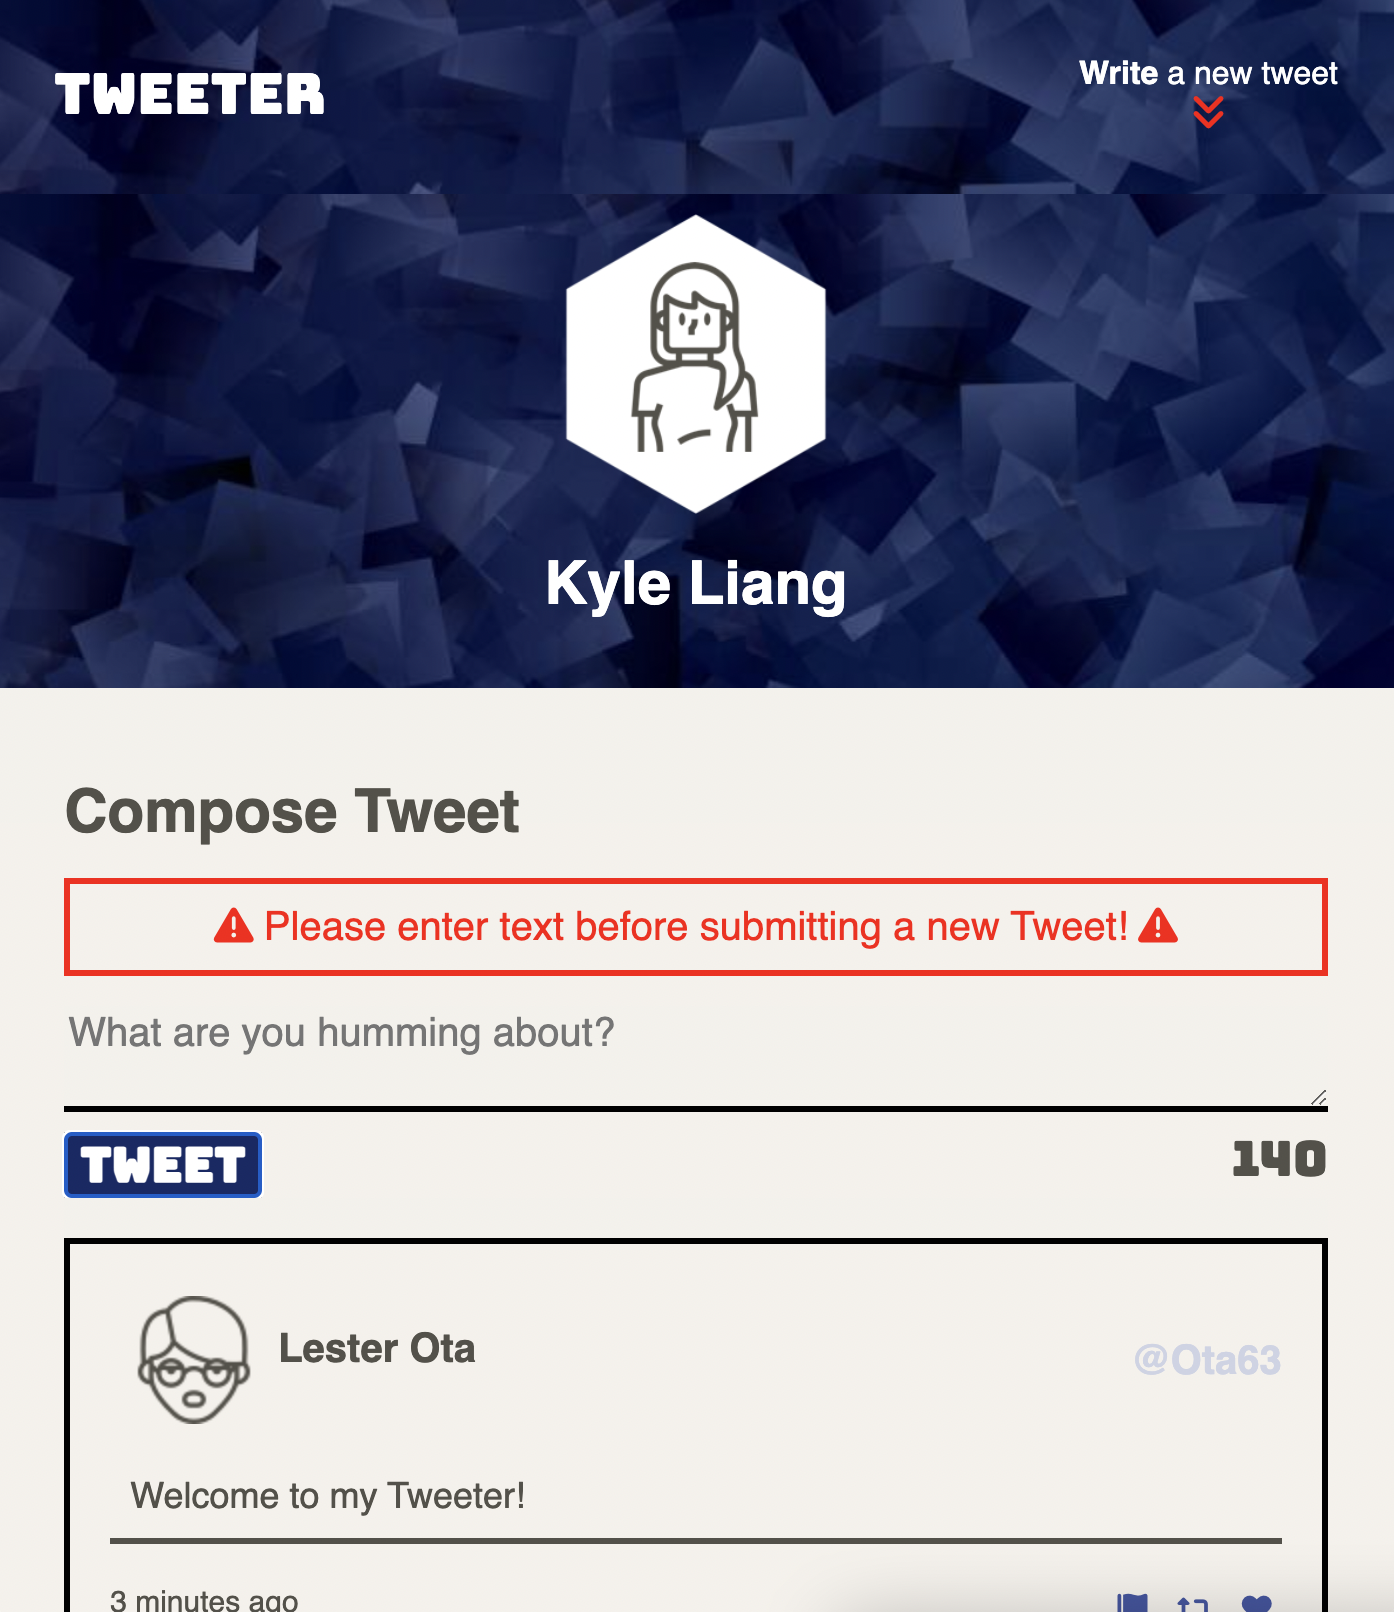
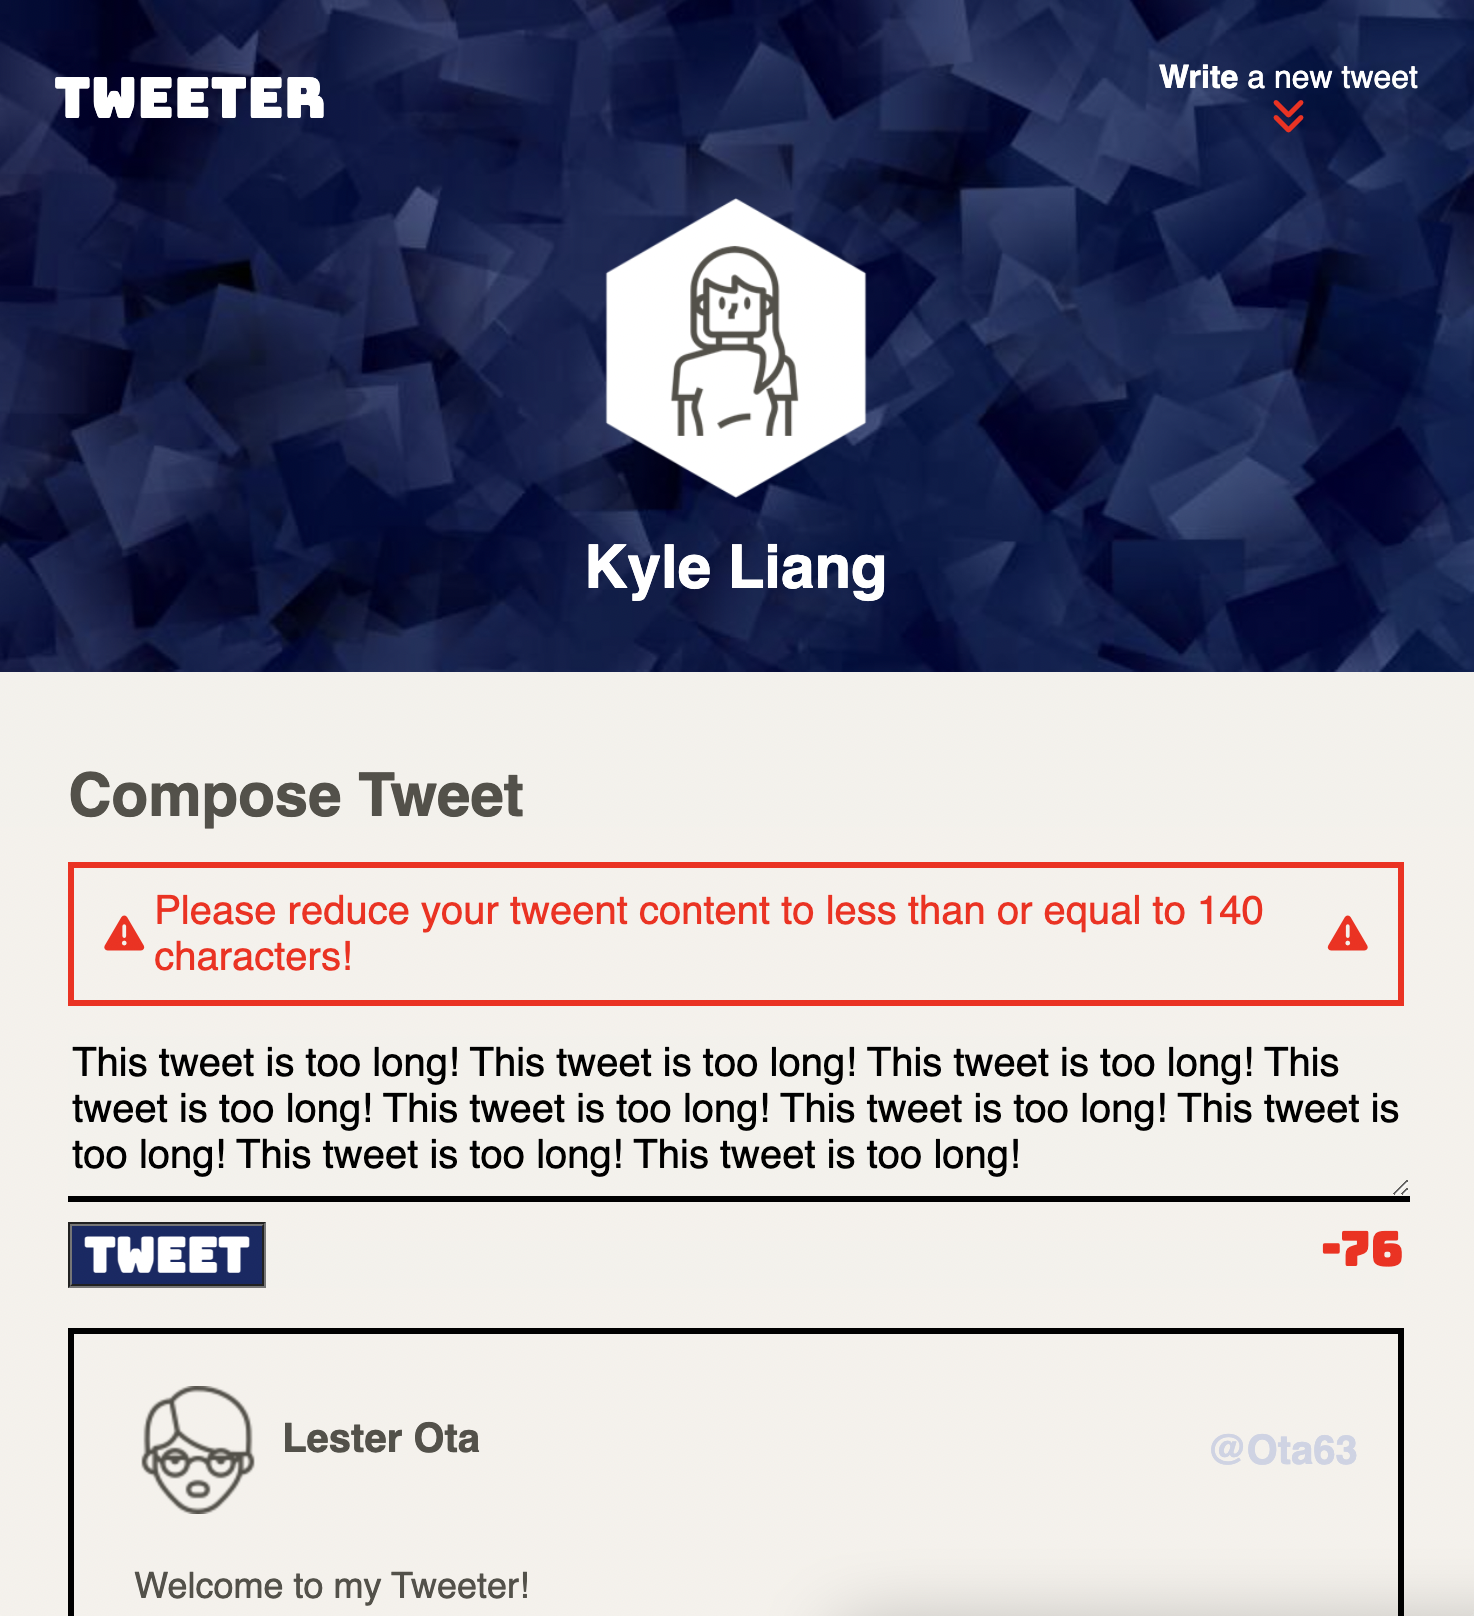
Fix design of navigation and header

diff --git a/public/styles/header.css b/public/styles/header.css
@@ -46,3 +46,9 @@
 }
 }
 
+@media only screen and (max-width: 1023px) {
+  .profile-header {
+    padding-top: 100px;
+    margin-top: 0px;
+  }
+}
